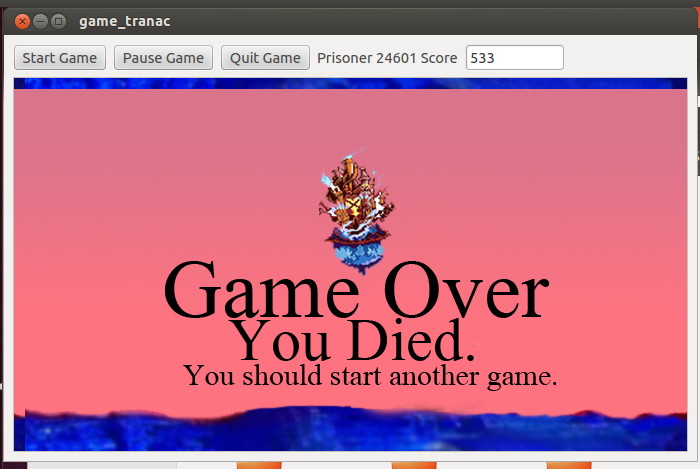
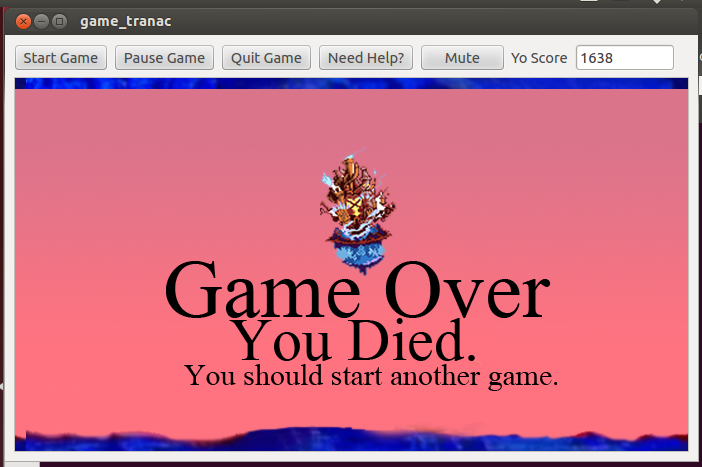
Updated gameDesignDoc.md

Changed region(s): [[0.0, 0.0, 1.0, 1.0], [0.24, 0.5396, 0.3, 0.5996], [0.93, 0.0899, 0.96, 0.1499]]

diff --git a/GameDesignDoc.md b/GameDesignDoc.md
@@ -78,25 +78,27 @@ The user has 3 lives. `WhiteMushroom`s are the only way to gain an extra life. T
 There is a menubar above the game window. (See **Layout: Game Screen**.) Pressing the `Pause` button will pause the game timer and game. A user will be able to enter their name before they begin a new name on the start screen. (see **Layout: Start Screen**).
 
 ### Invincible Mode
-The user may select an invincible mode at the any point in the game. In this mode, the player cannot die. The only way for the game to end is for the user to manually quit. This is selected by a radio button in the toolbar. No items have any effect in invincible mode, including bonus items.
-
-#### Collisions
-As mentioned above, no collisions happen in invincible mode. In regular gameplay, collisions only happen between the player and the boundaries and items. Items do not collide with each other.
+The user may select an invincible mode at the any point in the game. In this mode, the player cannot die. The only way for the game to end is for the user to manually quit. This is selected by a radio button in the toolbar at the beginning of the game. Collisions are handled (the player will flash), but no collisions have any effects besides the `TornadoStep`, which gives you extra points.
 
 ## Layout
 There will be a start screen, a gameplay screen, and a finished screen.
 
 ### Start Screen
-The main screen includes the game name, a text box to enter a user name. A user **must** enter a name to start gameplay. A toolbar above also holds a start button, a pause button, and a quit button. The quit button will close the program. The start button will begin a new game and switch to the gameplay scree barring a user name input. The pause button currently does nothing. The toolbar also holds a radio button that the user may select if they want to play in invincible mode.
+The main screen includes the game name, a text box to enter a user name. A user **must** enter a name to start gameplay. A toolbar above also holds a start button, a pause button, and a quit button. The quit button will close the program. The start button will begin a new game and switch to the gameplay scree barring a user name input. The pause button currently does nothing. The toolbar also holds a radio button that the user may select if they want to play in invincible mode, a mute/unmute button to control the background music, and a help button.
 
 ![Start Screen](images/startscreen.png "Start Screen")
 
 ### Gameplay Screen
-The gameplay screen is similar to the start scren, but there is a scrolling background and added items. Added to the toolbar is the user's name displayed with their score. At the top left of the gameplay scene, three keyblades are shown to indicate the number of lives left. These increase and decrease as the user's lives increase and decrease.
+The gameplay screen is similar to the start scren, but there is a scrolling background and added items. Added to the toolbar is the user's name displayed with their score. The invincibility mode button is hidden. At the top left of the gameplay scene, three keyblades are shown to indicate the number of lives left. These increase and decrease as the user's lives increase and decrease.
 
 Items enter the scene from the right and exit from the left. `Player` starts at a fixed x-coordinate but moves up and down. The `Pause` button now has functionality; it will stop the game timer if it's running. Clicking on it again will start it again with the same game. `Start` now restarts the entire game from the begninning.
 
 ![Gameplay Screen](images/gamescreen.png "Game Screen")
+
+### Help Screen
+The player can click a help button in the toolbar to display a help screen. If the game is running, it will be paused until they exit the screen.
+
+![Help Screen](images/helpscreen.png "Help Screen")
 
 ### Finish Screen
 Once the player loses all three lives or hits an `Aquatank`, the game switches to the finish screen. It is very similar to the start screen, as it displays an image. All previous items in the scene (`Player`, `Item`s, et cetera) are removed from the scene and deleted. From here, the user can start a new game using `Start` or quit the program.
